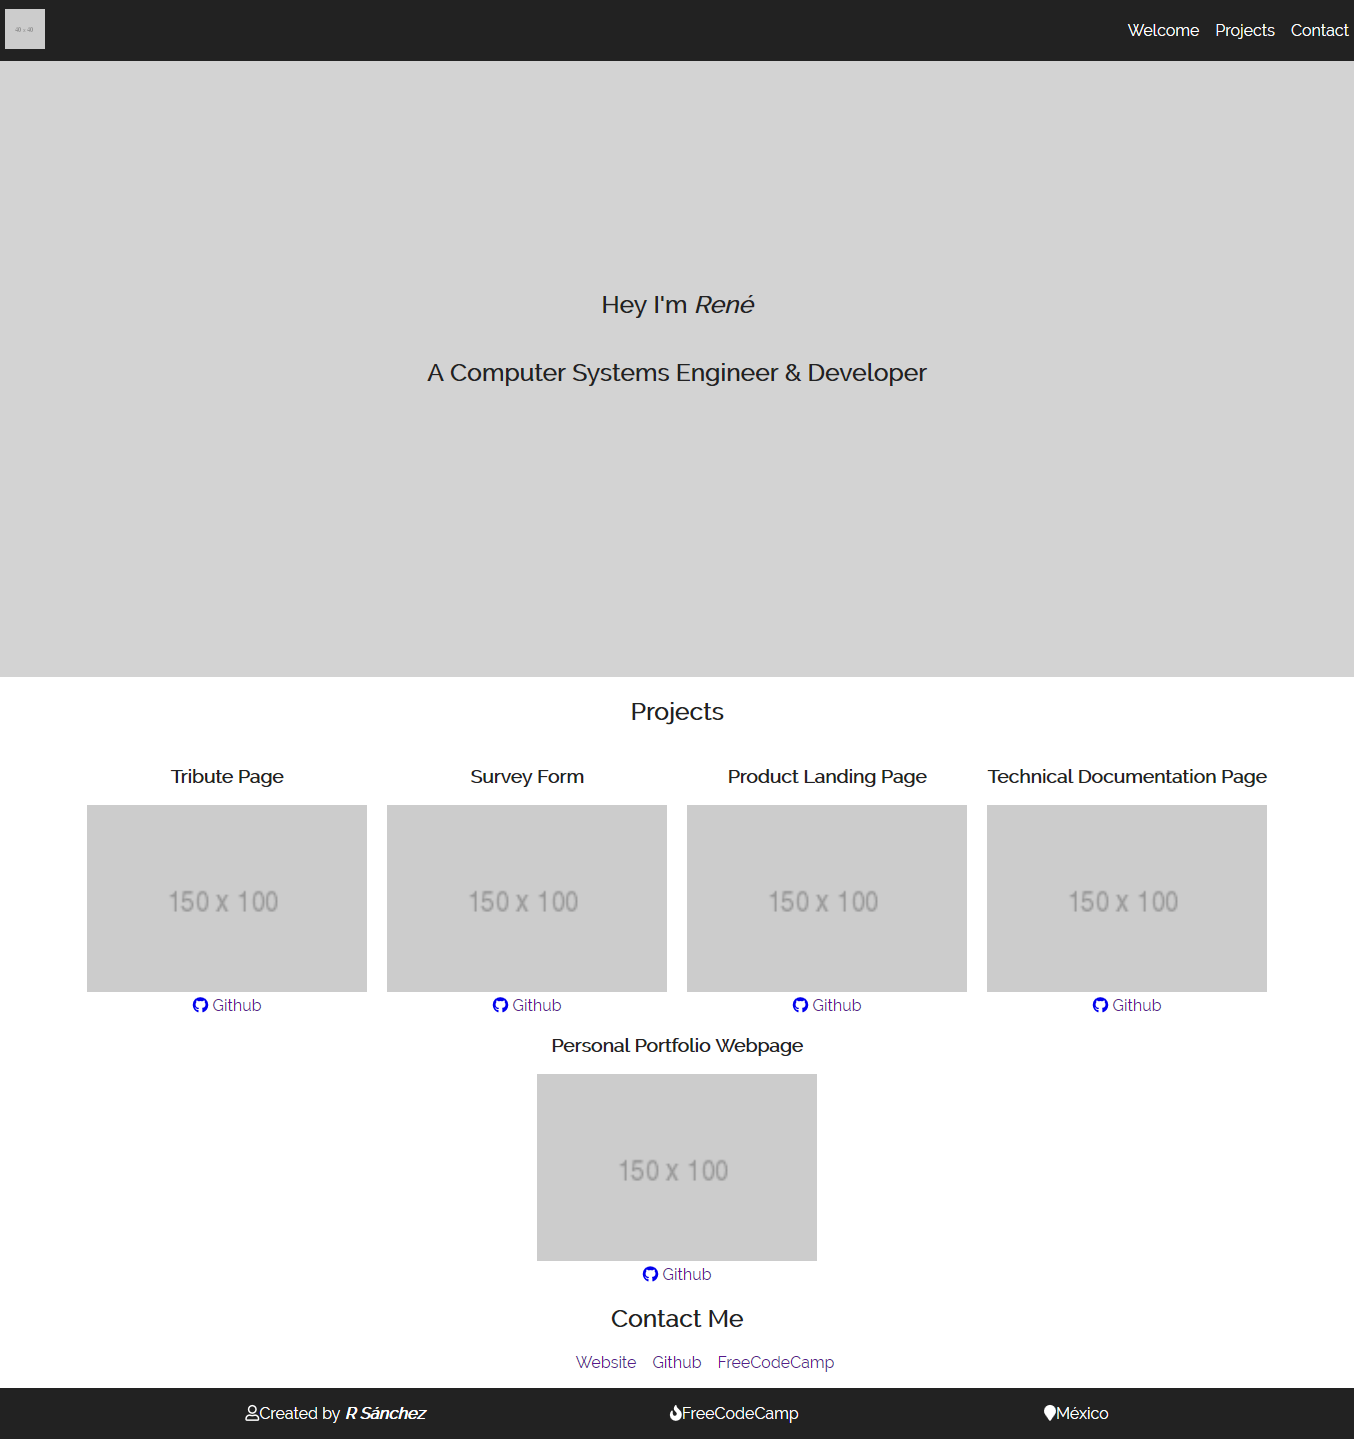
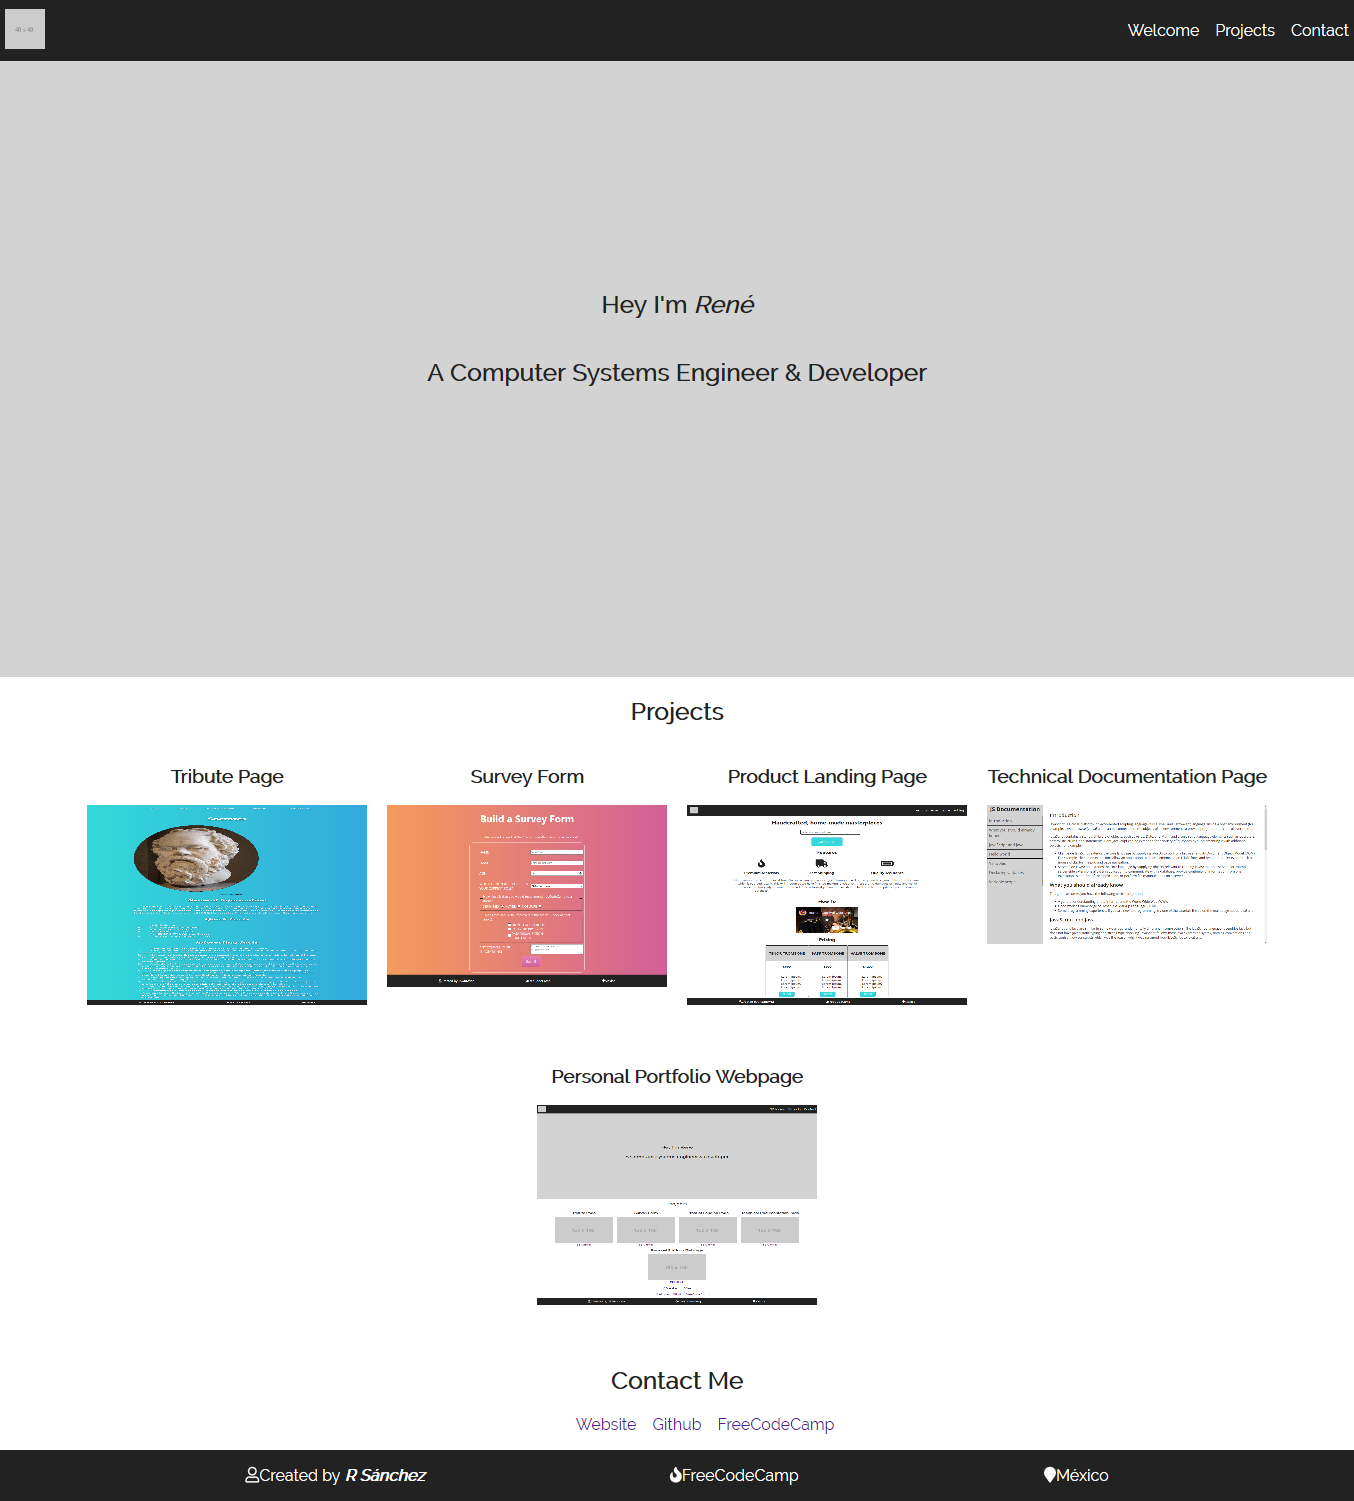
Updated links and screenshots for Personal Portfolio Page Project

diff --git a/1 Responsive Web Design Certification/8 Responsive Web Design Projects/5 Build a Personal Portfolio Webpage/index.html b/1 Responsive Web Design Certification/8 Responsive Web Design Projects/5 Build a Personal Portfolio Webpage/index.html
@@ -60,15 +60,15 @@
                             <h3>Tribute Page</h3>
                         </div>
                         <div>
-                            <a href="https://renems.com" target="_blank"><img src="https://raw.githubusercontent.com/remusa/free-code-camp/master/1%20Responsive%20Web%20Design%20Certification/8%20Responsive%20Web%20Design%20Projects/1%20Build%20a%20Tribute%20Page/screenshot.jpg"></a>
+                            <a href="https://codepen.io/rms/pen/gQgVNz" target="_blank"><img src="https://raw.githubusercontent.com/remusa/free-code-camp/master/1%20Responsive%20Web%20Design%20Certification/8%20Responsive%20Web%20Design%20Projects/1%20Build%20a%20Tribute%20Page/screenshot.jpg"></a>
                         </div>
                         <!-- <p>Lorem ipsum dolor sit amet, consectetur adipiscing elit.</p> -->
-                        <div class="project-links">
+                        <!-- <div class="project-links">
                             <a href="https://github.com/remusa" target="_blank">
                                 <i class="fab fa-github"></i>
                                 CodePen
                             </a>
-                        </div>
+                        </div> -->
                     </div>
 
                     <div class="project" class="project">
@@ -76,15 +76,15 @@
                             <h3>Survey Form</h3>
                         </div>
                         <div>
-                            <a href="https://renems.com" target="_blank"><img src="https://raw.githubusercontent.com/remusa/free-code-camp/master/1%20Responsive%20Web%20Design%20Certification/8%20Responsive%20Web%20Design%20Projects/2%20Build%20a%20Survey%20Form/screenshot.png"></a>
+                            <a href="https://codepen.io/rms/pen/jQBrBB" target="_blank"><img src="https://raw.githubusercontent.com/remusa/free-code-camp/master/1%20Responsive%20Web%20Design%20Certification/8%20Responsive%20Web%20Design%20Projects/2%20Build%20a%20Survey%20Form/screenshot.png"></a>
                         </div>
                         <!-- <p>Lorem ipsum dolor sit amet, consectetur adipiscing elit.</p> -->
-                        <div class="project-links">
+                        <!-- <div class="project-links">
                             <a href="https://github.com/remusa" target="_blank">
                                 <i class="fab fa-github"></i>
                                 CodePen
                             </a>
-                        </div>
+                        </div> -->
                     </div>
 
                     <div class="project" class="project">
@@ -92,15 +92,15 @@
                             <h3>Product Landing Page</h3>
                         </div>
                         <div>
-                            <a href="https://renems.com" target="_blank"><img src="https://raw.githubusercontent.com/remusa/free-code-camp/master/1%20Responsive%20Web%20Design%20Certification/8%20Responsive%20Web%20Design%20Projects/3%20Build%20a%20Product%20Landing%20Page/screenshot.png"></a>
+                            <a href="https://codepen.io/rms/pen/MzvMJW" target="_blank"><img src="https://raw.githubusercontent.com/remusa/free-code-camp/master/1%20Responsive%20Web%20Design%20Certification/8%20Responsive%20Web%20Design%20Projects/3%20Build%20a%20Product%20Landing%20Page/screenshot.png"></a>
                         </div>
                         <!-- <p>Lorem ipsum dolor sit amet, consectetur adipiscing elit.</p> -->
-                        <div class="project-links">
-                            <a href="https://github.com/remusa" target="_blank">
+                        <!-- <div class="project-links">
+                            <a href="" target="_blank">
                                 <i class="fab fa-github"></i>
                                 CodePen
                             </a>
-                        </div>
+                        </div> -->
                     </div>
 
                     <div class="project" class="project">
@@ -108,15 +108,15 @@
                             <h3>Technical Documentation Page</h3>
                         </div>
                         <div>
-                            <a href="https://renems.com" target="_blank"><img src="https://via.placeholder.com/150"></a>
+                            <a href="https://codepen.io/rms/pen/WYZGZw" target="_blank"><img src="https://raw.githubusercontent.com/remusa/free-code-camp/master/1%20Responsive%20Web%20Design%20Certification/8%20Responsive%20Web%20Design%20Projects/4%20Build%20a%20Technical%20Documentation%20Page/screenshot.png"></a>
                         </div>
                         <!-- <p>Lorem ipsum dolor sit amet, consectetur adipiscing elit.</p> -->
-                        <div class="project-links">
-                            <a href="https://github.com/remusa" target="_blank">
+                        <!-- <div class="project-links">
+                            <a href="https://codepen.io/rms/pen/WYZGZw" target="_blank">
                                 <i class="fab fa-github"></i>
                                 CodePen
                             </a>
-                        </div>
+                        </div> -->
                     </div>
 
                     <div class="project" class="project">
@@ -124,15 +124,15 @@
                             <h3>Personal Portfolio Webpage</h3>
                         </div>
                         <div>
-                            <a href="https://renems.com" target="_blank"><img src="https://raw.githubusercontent.com/remusa/free-code-camp/master/1%20Responsive%20Web%20Design%20Certification/8%20Responsive%20Web%20Design%20Projects/5%20Build%20a%20Personal%20Portfolio%20Webpage/screenshot.png"></a>
+                            <a href="https://codepen.io/rms/pen/RqZzax" target="_blank"><img src="https://raw.githubusercontent.com/remusa/free-code-camp/master/1%20Responsive%20Web%20Design%20Certification/8%20Responsive%20Web%20Design%20Projects/5%20Build%20a%20Personal%20Portfolio%20Webpage/screenshot.png"></a>
                         </div>
                         <!-- <p>Lorem ipsum dolor sit amet, consectetur adipiscing elit.</p> -->
-                        <div class="project-links">
+                        <!-- <div class="project-links">
                             <a href="https://github.com/remusa" target="_blank">
                                 <i class="fab fa-github"></i>
                                 Github
                             </a>
-                        </div>
+                        </div> -->
                     </div>
                 </div>
             </section>
